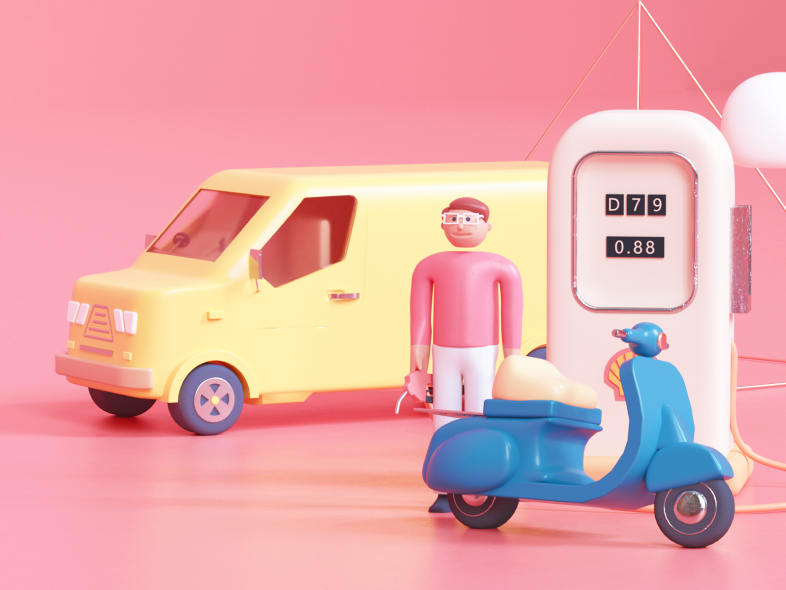
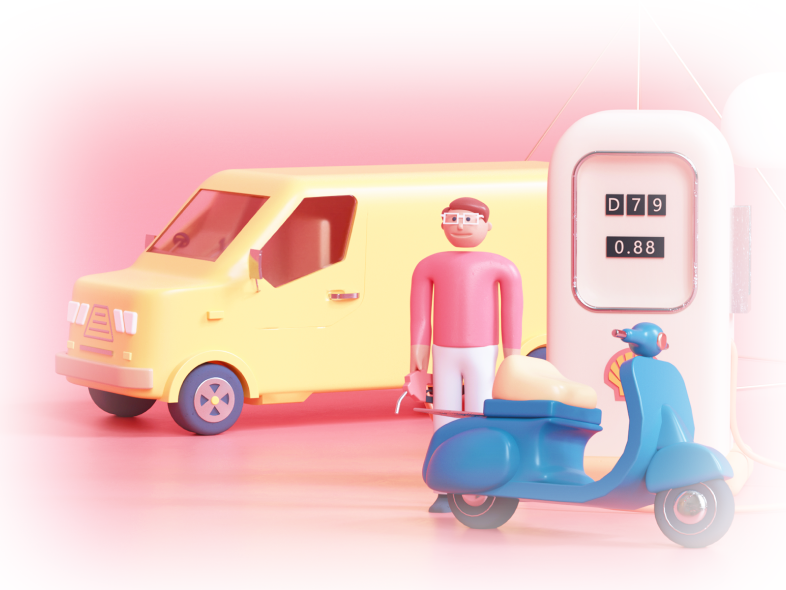
blured hero image correctly

diff --git a/src/components/Hero/Hero.module.scss b/src/components/Hero/Hero.module.scss
@@ -1,31 +1,28 @@
 @use "sass" as *;
 
 .background {
-  position: relative;
-  height: calc(100vh - $space-10);
+  display: flex;
+  align-items: center;
+
+  // whole viewport height minus navbar height
+  min-height: calc(100vh - $space-10);
   color: $color-hero;
   background-image: linear-gradient($color-primary, $color-primary-tint-1);
-
-  &::after {
-    content: "";
-    display: block;
-    box-shadow: 0 -3rem 6rem 3rem $color-primary-tint-1;
-  }
 }
 
 .container {
-  position: absolute;
+  display: grid;
+  grid-template-columns: repeat(2, 1fr);
   width: 140rem;
-  top: 50%;
-  left: 50%;
-  transform: translate(-50%, -50%);
-
-  // on top of image and blur effects
-  z-index: 2;
+  margin: 0 auto;
+  gap: 6rem;
 }
 
 .textBox {
-  width: 50%;
+  display: flex;
+  flex-direction: column;
+  align-items: flex-start;
+  justify-content: center;
 }
 
 .header {
@@ -56,47 +53,6 @@
   &:active {
     color: $color-link-hero;
     background-color: $color-primary;
-  }
-}
-
-.imgBox {
-  display: flex;
-  justify-content: flex-end;
-  align-items: center;
-  height: 100%;
-  overflow: hidden;
-}
-
-.blurImg {
-  position: relative;
-  margin-bottom: $space-10;
-
-  &::before {
-    content: "";
-    display: block;
-    position: absolute;
-    background-color: $color-primary;
-    width: 100%;
-    height: $space-11;
-    transform: translate(-20%, -40%);
-    filter: blur(2rem);
-
-    // on top of image
-    z-index: 1;
-  }
-
-  &::after {
-    content: "";
-    display: block;
-    position: absolute;
-    background-color: $color-primary-tint-2;
-    width: $space-11;
-    height: 100%;
-    transform: translate(50%, -100%);
-    filter: blur(2rem);
-
-    // on top of image
-    z-index: 1;
   }
 }
 

diff --git a/src/components/Hero/Hero.jsx b/src/components/Hero/Hero.jsx
@@ -20,9 +20,7 @@ export default function Hero() {
           </p>
           <button className={styles.download}>دانلود اپلیکیشن</button>
         </div>
-      </div>
-      <div className={styles.imgBox}>
-        <div className={styles.blurImg}>
+        <div className={styles.imgBox}>
           <picture>
             <source srcSet={HeroWEBP} type="image/webp" />
             <img
